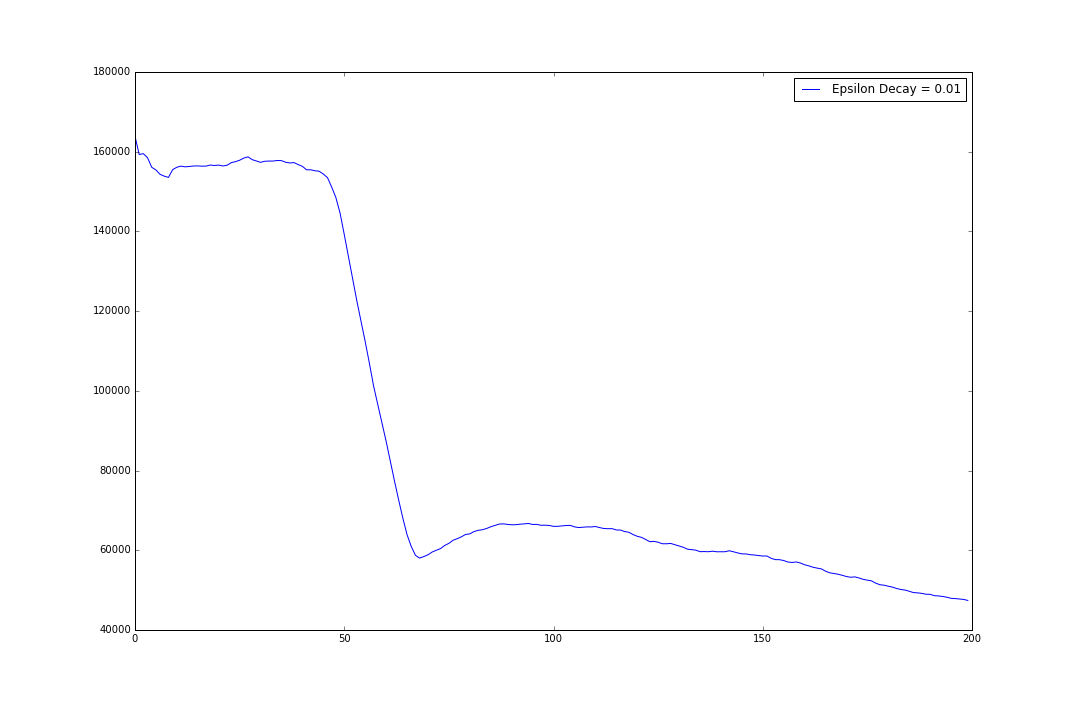
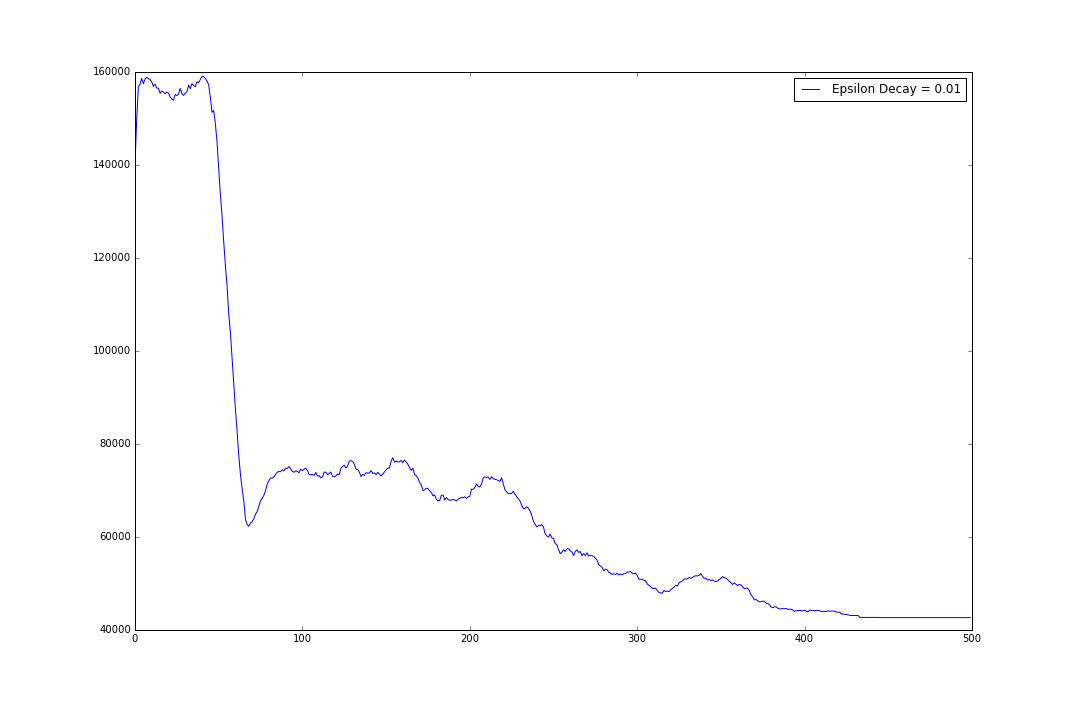
doubleQ working

diff --git a/tsp_singleQ_VS_doubleQ.py b/tsp_singleQ_VS_doubleQ.py
@@ -1,0 +1,209 @@
+# -*- coding: utf-8 -*-
+"""
+Created on Sat Mar 25 17:10:03 2017
+
+@author: miguel & ronan
+
+"""
+
+
+#%% Import libraries & functions
+
+# import libraries
+import numpy as np
+from scipy import *
+import matplotlib.pyplot as plt
+
+# import functions
+from loadTSPmatrix import loadTSPmatrix
+from tspFunctions import doubleQLearn
+from tspFunctions import qLearn
+
+#%% Load problem and define parameters
+
+file_name = 'tsp_matrices/att48_d.csv'
+int_R = loadTSPmatrix(file_name)
+
+epochs = 700 # init epochs count
+start = 0 # define start point at row 0
+
+goal_state_reward = 1000
+
+alphas = np.array([0.3]).astype('float32')
+gammas = np.array([0.3]).astype('float32')
+epsilons = np.array([0.9]).astype('float32')
+epsilon_decays = np.array([0.01]).astype('float32')
+
+sampling_sampling_runs = 5
+
+#%% Q-Learning
+
+# init variables for recording Q Learning metrics
+seqs = [] # list of lists, where each inner list records the state transitions made in an epoch. State transitions for each epoch in each sampling_run are recorded.
+costs_matrix = np.zeros((epochs, sampling_sampling_runs)) # matrix containing epoch cost vectors for each sampling sampling_run
+mean_costs_matrix = np.zeros((epochs, np.size(alphas)*np.size(gammas)*np.size(epsilons)*np.size(epsilon_decays))) # contains mean of costs for all sampling_runs of each parameter setting
+ps_dic = {} # init; parameter search dictionary
+loop_idx = 0 # init
+
+for a in range(0, np.size(alphas)):
+    for g in range(0, np.size(gammas)):
+        for e in range(0, np.size(epsilons)):
+            for d in range(0, np.size(epsilon_decays)):
+                
+                alpha = alphas[a]; gamma = gammas[g]; epsilon = epsilons[e]; epsilon_decay = epsilon_decays[d]
+                print('\nRunning Variant %s [Alpha: %.2f, Gamma: %.2f, Epsilon: %.2f, Decay: %.4f]...' % (loop_idx+1, alpha, gamma, epsilon, epsilon_decay))
+
+                for sampling_run in range (0, sampling_sampling_runs):
+                
+                    epoch_costs, trans_seqs, _ = qLearn(epochs, int_R, start, alpha, gamma, epsilon, epsilon_decay, goal_state_reward)
+                    
+                    # record all sequences followed in current sampling_run
+                    for epoch in range(0, epochs):
+                        seqs.append(trans_seqs[epoch])
+                        
+                    # add vector of epoch costs to costs_matrix
+                    costs_matrix[:, sampling_run] = epoch_costs
+                    
+                    # calculate mean costs across all 'sampling_runs'
+                    mean_costs = np.mean(costs_matrix, 1)
+                 
+                ps_dic[loop_idx] = ('Epsilon Decay = %.2f' % epsilon_decay) 
+                #ps_dic[loop_idx] = ('A [%.2f], G [%.2f], E [%.2f], D [%.4f]' % (alpha, gamma, epsilon, epsilon_decay))   
+                mean_costs_matrix[:, loop_idx] = mean_costs; loop_idx +=1
+
+np.save('ultraParameters', alphas)  
+np.save('ultraResults', mean_costs_matrix)                
+            
+
+# %% Calculates average cost of previous epochs (up to 'n' previous epochs)
+
+n = 20
+window_ave = np.zeros_like(mean_costs_matrix)
+for k in range(0,int(np.size(mean_costs_matrix,1))):
+    for i in range(1,int(np.size(mean_costs_matrix[:,k])+1)):
+        if i<n-1:
+            window_ave[i-1,k] = (np.mean(mean_costs_matrix[:,k][0:i]))
+        else:
+            window_ave[i-1,k] = (np.mean(mean_costs_matrix[:,k][i-(n-1):i]))
+
+
+#%% Clear metrics variables
+del trans_seqs, epoch_costs, costs_matrix, mean_costs, euler_gamma, pi
+del mean_costs_matrix, epoch, ps_dic, loop_idx 
+
+
+#%% doubleQ-Learning
+
+# init variables for recording Q Learning metrics
+seqs2 = [] # list of lists, where each inner list records the state transitions made in an epoch. State transitions for each epoch in each sampling_run are recorded.
+costs_matrix = np.zeros((epochs, sampling_sampling_runs)) # matrix containing epoch cost vectors for each sampling sampling_run
+mean_costs_matrix = np.zeros((epochs, np.size(alphas)*np.size(gammas)*np.size(epsilons)*np.size(epsilon_decays))) # contains mean of costs for all sampling_runs of each parameter setting
+ps_dic = {} # init; parameter search dictionary
+loop_idx = 0 # init
+
+
+for a in range(0, np.size(alphas)):
+    for g in range(0, np.size(gammas)):
+        for e in range(0, np.size(epsilons)):
+            for d in range(0, np.size(epsilon_decays)):
+                
+                alpha = alphas[a]; gamma = gammas[g]; epsilon = epsilons[e]; epsilon_decay = epsilon_decays[d]
+                print('\nRunning Variant %s [Alpha: %.2f, Gamma: %.2f, Epsilon: %.2f, Decay: %.4f]...' % (loop_idx+1, alpha, gamma, epsilon, epsilon_decay))
+
+                for sampling_run in range (0, sampling_sampling_runs):
+                
+                    epoch_costs, trans_seqs, _ , _ = doubleQLearn(epochs, int_R, start, alpha, gamma, epsilon, epsilon_decay, goal_state_reward)
+                    
+                    # record all sequences followed in current sampling_run
+                    for epoch in range(0, epochs):
+                        seqs2.append(trans_seqs[epoch])
+                        
+                    # add vector of epoch costs to costs_matrix
+                    costs_matrix[:, sampling_run] = epoch_costs
+                    
+                    # calculate mean costs across all 'sampling_runs'
+                    mean_costs = np.mean(costs_matrix, 1)
+                 
+                ps_dic[loop_idx] = ('Epsilon Decay = %.2f' % epsilon_decay) 
+                #ps_dic[loop_idx] = ('A [%.2f], G [%.2f], E [%.2f], D [%.4f]' % (alpha, gamma, epsilon, epsilon_decay))   
+                mean_costs_matrix2[:, loop_idx] = mean_costs; loop_idx +=1
+
+np.save('ultraParameters', alphas)  
+np.save('ultraResults2', mean_costs_matrix2)                
+            
+
+# %% Calculates average cost of previous epochs (up to 'n' previous epochs)
+
+n = 20
+window_ave2 = np.zeros_like(mean_costs_matrix2)
+for k in range(0,int(np.size(mean_costs_matrix2,1))):
+    for i in range(1,int(np.size(mean_costs_matrix2[:,k])+1)):
+        if i<n-1:
+            window_ave[i-1,k] = (np.mean(mean_costs_matrix2[:,k][0:i]))
+        else:
+            window_ave[i-1,k] = (np.mean(mean_costs_matrix2[:,k][i-(n-1):i]))
+
+
+#%% Clear Redundant Variables from workspace in double Q
+
+# clear input variables
+del start, epoch, epochs, sampling_sampling_runs, goal_state_reward
+# clear any variables created solely for 'looping' purposes
+del file_name, a, alpha, e, epsilon, g, gamma, d,  epsilon_decay , sampling_run, loop_idx
+# clear non-aggregate metrics variables
+del trans_seqs, epoch_costs, costs_matrix, mean_costs, euler_gamma, pi
+
+
+#%%
+
+''' Plot performance graphs'''
+
+
+#%%  Plot line graph
+
+if plotting == False:
+    plt.figure(figsize=(15,10))
+    plt.plot(window_ave)
+    plt.plot(window_ave2)
+    plt.legend(ps_dic.values())
+    plt.savefig('ultra')
+
+#%%
+
+if plotting == True:
+
+    # import dependencies
+    from plotdata import plotBrokenLines, plotLines, plotRoutes, heatmap
+    
+    # Plot line graph ------------------------
+    baseline = 40000                  # minimum posible cost
+    variable = alphas               # variable to explore
+    title = 'Learning Alpha Search'  # title of graph
+    
+    plotBrokenLines(window_ave,alphas,baseline,title)
+    
+    plotLines(window_ave,alphas,baseline,title)
+    
+    
+#%% 
+
+    # Plot routes ----------------------------
+file_xy = 'tsp_matrices/att48_xy.csv'
+
+plotManyRoutes(seqs,file_xy,alphas)
+
+
+    # HeatMap with interpolation --------------   
+a = 'a'                         # string with name of variable in x
+b = 'b'                         # string with nama of variable in y
+np.random.seed(0)               # just for demo
+grid = np.random.rand(8, 8)     # np.array with performance values
+
+heatmap(grid,a,b)               # plot heatmap
+
+
+
+
+
+
+

diff --git a/tsp_USA.py b/tsp_USA.py
@@ -1,0 +1,117 @@
+# -*- coding: utf-8 -*-
+"""
+Created on Sat Mar 25 17:10:03 2017
+
+@author: miguel & ronan
+
+"""
+#%% Import libraries & functions
+
+# import libraries
+import numpy as np
+from scipy import *
+import matplotlib.pyplot as plt
+
+# import functions
+from loadTSPmatrix import loadTSPmatrix
+from tspFunctions import qLearn
+
+#%% Load problem and define parameters
+
+file_name = 'tsp_matrices/att48_d.csv'
+int_R = loadTSPmatrix(file_name)
+
+epochs = 800 # init epochs count
+start = 0 # define start point at row 0
+
+goal_state_reward = 1000
+
+alphas = np.array([0.3]).astype('float32')
+gammas = np.array([0.3]).astype('float32')
+epsilons = np.array([0.9]).astype('float32')
+epsilon_decays = np.array([0.01]).astype('float32')
+
+sampling_sampling_runs = 5
+
+#%% Q-Learning
+
+# init variables for recording Q Learning metrics
+seqs = [] # list of lists, where each inner list records the state transitions made in an epoch. State transitions for each epoch in each sampling_run are recorded.
+costs_matrix = np.zeros((epochs, sampling_sampling_runs)) # matrix containing epoch cost vectors for each sampling sampling_run
+mean_costs_matrix = np.zeros((epochs, np.size(alphas)*np.size(gammas)*np.size(epsilons)*np.size(epsilon_decays))) # contains mean of costs for all sampling_runs of each parameter setting
+ps_dic = {} # init; parameter search dictionary
+loop_idx = 0 # init
+
+
+for a in range(0, np.size(alphas)):
+    for g in range(0, np.size(gammas)):
+        for e in range(0, np.size(epsilons)):
+            for d in range(0, np.size(epsilon_decays)):
+                
+                alpha = alphas[a]; gamma = gammas[g]; epsilon = epsilons[e]; epsilon_decay = epsilon_decays[d]
+                print('\nRunning Variant %s [Alpha: %.2f, Gamma: %.2f, Epsilon: %.2f, Decay: %.4f]...' % (loop_idx+1, alpha, gamma, epsilon, epsilon_decay))
+
+                for sampling_run in range (0, sampling_sampling_runs):
+                
+                    epoch_costs, trans_seqs, _ = qLearn(epochs, int_R, start, alpha, gamma, epsilon, epsilon_decay, goal_state_reward)
+                    
+                    # record all sequences followed in current sampling_run
+                    for epoch in range(0, epochs):
+                        seqs.append(trans_seqs[epoch])
+                        
+                    # add vector of epoch costs to costs_matrix
+                    costs_matrix[:, sampling_run] = epoch_costs
+                    
+                    # calculate mean costs across all 'sampling_runs'
+                    mean_costs = np.mean(costs_matrix, 1)
+                 
+                ps_dic[loop_idx] = ('Epsilon Decay = %.2f' % epsilon_decay) 
+                #ps_dic[loop_idx] = ('A [%.2f], G [%.2f], E [%.2f], D [%.4f]' % (alpha, gamma, epsilon, epsilon_decay))   
+                mean_costs_matrix[:, loop_idx] = mean_costs; loop_idx +=1
+
+np.save('ultraParameters', alphas)  
+np.save('ultraResults', mean_costs_matrix)                
+          
+
+# Calculates average cost of previous epochs (up to 'n' previous epochs)
+n = 20
+window_ave = np.zeros_like(mean_costs_matrix)
+for k in range(0,int(np.size(mean_costs_matrix,1))):
+    for i in range(1,int(np.size(mean_costs_matrix[:,k])+1)):
+        if i<n-1:
+            window_ave[i-1,k] = (np.mean(mean_costs_matrix[:,k][0:i]))
+        else:
+            window_ave[i-1,k] = (np.mean(mean_costs_matrix[:,k][i-(n-1):i]))
+  
+
+#%% Clear Redundant Variables from workspace
+
+# clear input variables
+del start, epoch, epochs, sampling_sampling_runs, goal_state_reward
+
+# clear any variables created solely for 'looping' purposes
+del file_name, a, alpha, e, epsilon, g, gamma, d,  epsilon_decay , sampling_run, loop_idx
+
+# clear non-aggregate metrics variables
+del trans_seqs, epoch_costs, costs_matrix, mean_costs, mean_costs_matrix, euler_gamma, pi
+
+
+#%% Plot performance graphs
+
+
+# import dependencies
+from plotdata import plotBrokenLines, plotLines, plotManyRoutes, heatmap
+
+# Plot line graph ------------------------
+baseline = 40000                  # minimum posible cost
+variable = alphas               # variable to explore
+title = 'Tour in the USA'  # title of graph
+    
+plotLines(window_ave,alphas,baseline,title)
+
+
+# Plot routes ----------------------------
+file_xy = 'tsp_matrices/att48_xy.csv'
+
+plotManyRoutes(seqs,file_xy,alphas)
+    

diff --git a/tspFunctions.py b/tspFunctions.py
@@ -109,10 +109,9 @@ def qLearn(epochs, int_R, start, alpha, gamma, epsilon, epsilon_decay, goal_stat
     
 
 
-
 ''' Doble Q-learning'''
 
- def doubleQLearn(epochs, int_R, start, alpha, gamma, epsilon, epsilon_decay, goal_state_reward, max_iters):
+def doubleQLearn(epochs, int_R, start, alpha, gamma, epsilon, epsilon_decay, goal_state_reward):
     
     # import function dependencies
     from copy import deepcopy
@@ -147,7 +146,7 @@ def qLearn(epochs, int_R, start, alpha, gamma, epsilon, epsilon_decay, goal_stat
             A = np.argwhere(~np.isnan(R[s,:]))
 
             doubleQ = Q1+Q2             # using the addition matrix Q1 + Q2 for E-greedy policy
-            a = epsilonGreedy(epsilon, s, dobleQ, A)
+            a = epsilonGreedy(epsilon, s, doubleQ, A)
         
             transition_seqs[i].append(a)     # record transition made in current iteration
                 
@@ -155,13 +154,13 @@ def qLearn(epochs, int_R, start, alpha, gamma, epsilon, epsilon_decay, goal_stat
             s_nxt = a     # assign chosen action (a) to be the next state the agent enters
             A_nxt = np.argwhere(~np.isnan(R[s_nxt,:]))   # create list of available actions from next state (s_nxt)
             
-            if rand()<=0.5:
+            if np.random.rand()<=0.5:
 
                 # update Q1 with next step reward estimation from Q2 matrix
                 if (sum(visited) < 3):
                     update = Q1[s,a] + alpha * ((R[s,a] +  gamma * Q2[s_nxt,4]) - Q1[s,a])              # calculate update to Q matrix value for current state Q[s,a] given next state (s_nxt)
                 else: 
-                    update = Q1[s,a] + alpha * ((R[s,a] +  gamma * Q2[s_nxt,np.argmax(Q1[s_nxt, A_nxt])[0]]) - Q1[s,a])     # calculate update to Q matrix value for current state Q[s,a] given next state (s_nxt)
+                    update = Q1[s,a] + alpha * ((R[s,a] +  gamma * Q2[s_nxt,np.argmax(Q1[s_nxt, A_nxt])]) - Q1[s,a])     # calculate update to Q matrix value for current state Q[s,a] given next state (s_nxt)
                 
                 Q1[s,a] = update # update Q matrix value in current state Q[s,a]
                 #cost += R[s,a]
@@ -192,7 +191,7 @@ def qLearn(epochs, int_R, start, alpha, gamma, epsilon, epsilon_decay, goal_stat
                 if (sum(visited) < 3):
                     update = Q2[s,a] + alpha * ((R[s,a] +  gamma * Q1[s_nxt,4]) - Q2[s,a])              # calculate update to Q matrix value for current state Q[s,a] given next state (s_nxt)
                 else: 
-                    update = Q2[s,a] + alpha * ((R[s,a] +  gamma * Q1[s_nxt,np.argmax(Q2[s_nxt, A_nxt])[0]]) - Q2[s,a])     # calculate update to Q matrix value for current state Q[s,a] given next state (s_nxt)
+                    update = Q2[s,a] + alpha * ((R[s,a] +  gamma * Q1[s_nxt,np.argmax(Q2[s_nxt, A_nxt])]) - Q2[s,a])     # calculate update to Q matrix value for current state Q[s,a] given next state (s_nxt)
                 
                 Q2[s,a] = update # update Q matrix value in current state Q[s,a]
                 #cost += R[s,a]

diff --git a/plotdata.py b/plotdata.py
@@ -186,17 +186,9 @@ def plotManyRoutes(seqs,file_xy,variable):
         path = np.asarray([coordenates[x,:] for x in paths[0:-1,0]])
         plt.plot(path[:,0],path[:,1], linestyle = '-', c='orange', 
                  linewidth=8, alpha=0.8, zorder=2, label='best path ' + np.array_str(paths[0:-1,0]))
-         
-       # Add a legend
-        legend = plt.legend(bbox_to_anchor=(1, 1), loc='upper left', shadow=False,fontsize= 10)
-        legend.get_frame().set_facecolor('white')   # legend background
-        legend.get_frame().set_edgecolor('black')    # legend edge color
-        legtext = legend.get_texts()
-        for text in legtext[0:-4]:             # text in legend
-            plt.setp(text)
-        
+          
         # plot states/cities
-        mapa.scatter(coordenates[0:-1,0],coordenates[0:-1,1],
+        plt.scatter(coordenates[0:-1,0],coordenates[0:-1,1],
                      c='white', s=800, 
                      label='white',alpha=1, 
                      edgecolors='black', zorder=3)
